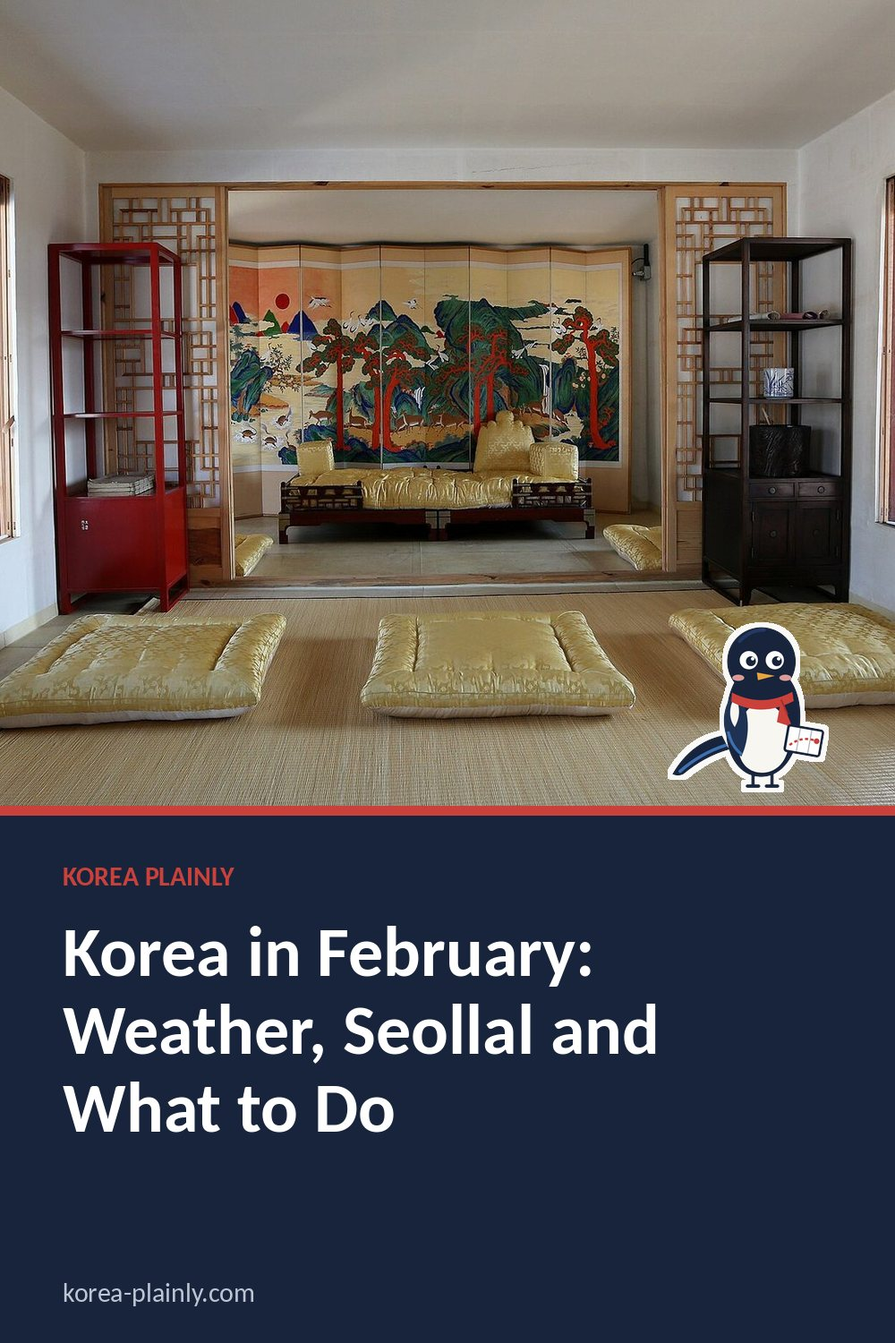
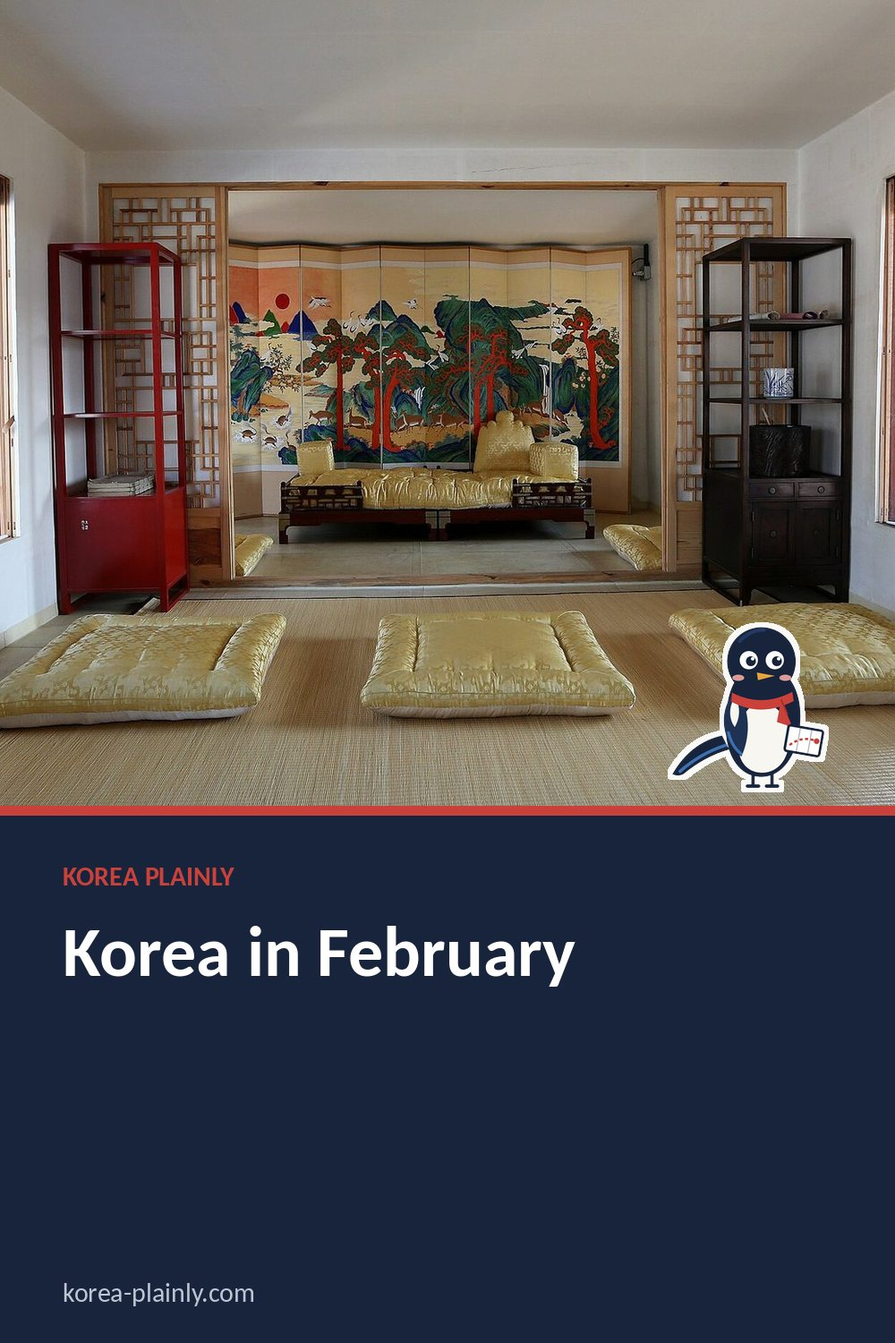
February guide: retitle for 'seoul in february weather' and expand Seoul weather (early vs late Feb, wind chill, snow, daylight, fine dust) with a new FAQ; pharmacy guide: specific bottom line, public late-night pharmacies, links to emergency, Papago and convenience store guides, retry cover photo; 
Claude-Session: https://claude.ai/code/session_01MMQnqJENJmphxJ5L9fLGpf

Changed region(s): [[0.062, 0.736, 0.589, 0.8587], [0.62, 0.7053, 0.744, 0.7973]]

diff --git a/korea-pharmacy-guide.html b/korea-pharmacy-guide.html
@@ -245,12 +245,12 @@ footer {
 <script async src="https://pagead2.googlesyndication.com/pagead/js/adsbygoogle.js?client=ca-pub-7379462117232471" crossorigin="anonymous"></script>
 <style>.kp-date{font-size:13px;color:#62635f;margin:-6px 0 22px}</style>
 <script type="application/ld+json" id="kp-faq-ld">{"@context": "https://schema.org", "@type": "FAQPage", "mainEntity": [{"@type": "Question", "name": "Can I buy common travel medicines at a pharmacy in Korea?", "acceptedAnswer": {"@type": "Answer", "text": "Many pharmacies sell medicines for common problems such as a cold, allergies, or an upset stomach. Tell the pharmacist what symptoms you have and mention any allergies or other medicines you take. If symptoms are severe, unusual, or getting worse, seek medical care rather than relying on an over-the-counter product."}}, {"@type": "Question", "name": "What should I bring if I need medicine while travelling in Korea?", "acceptedAnswer": {"@type": "Answer", "text": "Bring your regular medicines in their original packaging, along with a note of their generic names and doses. A prescription or a note from your doctor can help explain what you take. If you need a replacement, show the pharmacist the packaging or written information instead of relying only on a brand name."}}, {"@type": "Question", "name": "Will a Korean pharmacist be able to help me in English?", "acceptedAnswer": {"@type": "Answer", "text": "Some pharmacists may speak English, but it is helpful to be ready to explain your symptoms simply. Write down when they started, any allergies, and medicines you already take. A translation app can help, but check that you understand the directions, including how often to take the medicine and any warnings."}}]}</script>
-<script type="application/ld+json" id="kp-article-ld">{"@context": "https://schema.org", "@type": "Article", "headline": "Buying Medicine in Korea: Pharmacies for Travellers", "description": "How to find a pharmacy, explain common symptoms, buy basic medicine and get help with prescriptions while travelling in Korea.", "image": ["https://korea-plainly.com/store.jpg"], "datePublished": "2026-11-10", "dateModified": "2026-11-10", "author": {"@type": "Person", "name": "Jungsuk Kim", "url": "https://korea-plainly.com/about.html#author"}, "publisher": {"@type": "Organization", "name": "Korea Plainly", "url": "https://korea-plainly.com/"}, "mainEntityOfPage": "https://korea-plainly.com/korea-pharmacy-guide.html"}</script>
-<script type="application/ld+json" id="kp-breadcrumb-ld">{"@context": "https://schema.org", "@type": "BreadcrumbList", "itemListElement": [{"@type": "ListItem", "position": 1, "name": "Home", "item": "https://korea-plainly.com/"}, {"@type": "ListItem", "position": 2, "name": "Guides", "item": "https://korea-plainly.com/guides.html"}, {"@type": "ListItem", "position": 3, "name": "Daily Life", "item": "https://korea-plainly.com/guides.html?category=daily"}, {"@type": "ListItem", "position": 4, "name": "Buying Medicine in Korea: Pharmacies for Travellers", "item": "https://korea-plainly.com/korea-pharmacy-guide.html"}]}</script>
-<meta property="article:published_time" content="2026-11-10">
 <link rel="stylesheet" href="article.css?v=4">
 <link rel="stylesheet" href="https://fonts.googleapis.com/css2?family=DM+Sans:wght@400;500;600;700&family=Playfair+Display:ital,wght@0,600;1,600&display=swap">
 <link rel="icon" href="/favicon.svg" type="image/svg+xml">
+<script type="application/ld+json" id="kp-article-ld">{"@context": "https://schema.org", "@type": "Article", "headline": "Buying Medicine in Korea: Pharmacies for Travellers", "description": "How to find a pharmacy, explain common symptoms, buy basic medicine and get help with prescriptions while travelling in Korea.", "image": ["https://korea-plainly.com/store.jpg"], "datePublished": "2026-11-10", "dateModified": "2026-11-10", "author": {"@type": "Person", "name": "Jungsuk Kim", "url": "https://korea-plainly.com/about.html#author"}, "publisher": {"@type": "Organization", "name": "Korea Plainly", "url": "https://korea-plainly.com/"}, "mainEntityOfPage": "https://korea-plainly.com/korea-pharmacy-guide.html"}</script>
+<script type="application/ld+json" id="kp-breadcrumb-ld">{"@context": "https://schema.org", "@type": "BreadcrumbList", "itemListElement": [{"@type": "ListItem", "position": 1, "name": "Home", "item": "https://korea-plainly.com/"}, {"@type": "ListItem", "position": 2, "name": "Guides", "item": "https://korea-plainly.com/guides.html"}, {"@type": "ListItem", "position": 3, "name": "Daily Life", "item": "https://korea-plainly.com/guides.html?category=daily"}, {"@type": "ListItem", "position": 4, "name": "Buying Medicine in Korea: Pharmacies for Travellers", "item": "https://korea-plainly.com/korea-pharmacy-guide.html"}]}</script>
+<meta property="article:published_time" content="2026-11-10">
 </head>
 
 <body class="kp-article">
@@ -297,7 +297,7 @@ How to find a pharmacy, explain common symptoms, buy basic medicine and get help
 <article>
 
 <p>A Korean pharmacy is easy to spot: look for the sign 약국 (yak-guk), often with a green cross. Pharmacists can help with common problems such as a headache, a cold, an upset stomach or allergies. Most medicines are sold through pharmacies, while convenience stores carry only a limited selection. A little preparation helps, especially if you take regular medicine or have allergies.</p><nav class="kp-toc" data-kp="toc" aria-label="On this page"><p>On this page</p><ol><li><a href="#finding-a-pharmacy">Finding a pharmacy</a></li><li><a href="#what-to-say-at-the-counter">What to say at the counter</a></li><li><a href="#buying-common-medicines">Buying common medicines</a></li><li><a href="#convenience-stores-and-late-night-needs">Convenience stores and late-night needs</a></li><li><a href="#prescription-medicines-and-regular-treatments">Prescription medicines and regular treatments</a></li><li><a href="#when-a-pharmacy-is-not-enough">When a pharmacy is not enough</a></li><li><a href="#frequently-asked-questions">Frequently Asked Questions</a></li></ol></nav>
-<h2 id="finding-a-pharmacy">Finding a pharmacy</h2><p>Search 약국 in Naver Map or KakaoMap. In Seoul, you will find pharmacies around busy areas such as Myeongdong, Hongdae and the streets near Seoul Station; in Busan, try the blocks around Seomyeon Station on subway lines 1 and 2. A pharmacy’s location does not guarantee that it is open when you arrive. For today’s status, use Naver Map or KakaoMap; the Ministry of Health and Welfare’s E-Gen portal (e-gen.or.kr) also lists pharmacies and emergency services, though much of its information is in Korean.</p><p>Some pharmacies close in the evening or on public holidays, and hours vary. If one is shut, search for another nearby rather than assuming every pharmacy follows the same schedule. In a large station or shopping district, look at the streets around the station as well as inside the main shopping areas.</p><h2 id="what-to-say-at-the-counter">What to say at the counter</h2><p>Tell the pharmacist what is wrong, when it started and what you have already taken. You can show the medicine’s package or type a short message into a translation app. These Korean words can help:</p><ul><li><strong>두통 (du-tong):</strong> headache</li><li><strong>감기 (gam-gi):</strong> cold</li><li><strong>소화불량 (so-hwa-bul-lyang):</strong> indigestion</li><li><strong>알레르기 (al-le-reu-gi):</strong> allergy</li><li><strong>복용법 (bo-gyong-beop):</strong> directions for taking medicine</li><li><strong>하루 몇 번 먹어요? (ha-ru myeot beon meo-geo-yo?):</strong> How many times a day should I take it?</li></ul><p>Say clearly if you are pregnant, breastfeeding, taking other medicines or allergic to a drug. If you do not understand the directions, ask the pharmacist to write down how often to take it. English support varies by pharmacy, even in central Seoul.</p><h2 id="buying-common-medicines">Buying common medicines</h2><p>For everyday problems, ask for 진통제 (jin-tong-je), a pain reliever; 감기약 (gam-gi-yak), cold medicine; 소화제 (so-hwa-je), digestive medicine; or 알레르기약 (al-le-reu-gi-yak), allergy medicine. You may also see 파스 (pa-seu), medicated patches often used for sore muscles. These are categories, not a recommendation for a particular product. Ask the pharmacist to check the active ingredient and explain the dose.</p><p>Many Korean medicine packages have instructions mainly in Korean. Keep the box or leaflet so you can check the name and directions later. Do not combine two cold or pain medicines without checking their ingredients: products with different brand names can contain the same active drug. This is especially important if you already take medicine brought from home.</p><h2 id="convenience-stores-and-late-night-needs">Convenience stores and late-night needs</h2><p>Some convenience stores sell a small range of approved over-the-counter medicines, such as selected pain, cold and digestive remedies. Stores near Hongik University Station in Seoul or Seomyeon in Busan may be easy to find late at night, but not every branch carries medicine, and the selection is much smaller than a pharmacy’s. Ask the cashier for 약 (yak, medicine) or look for a medicine label near the counter.</p><p>A convenience store is not a substitute for a pharmacist when you need advice, have a serious symptom or take several medicines. If you cannot find an open pharmacy, search 약국 on a map app or use E-Gen. For a medical emergency, call 119 or go to an emergency department; do not wait for a shop to open.</p><h2 id="prescription-medicines-and-regular-treatments">Prescription medicines and regular treatments</h2><p>For prescription-only medicine, expect to see a Korean doctor and receive a Korean prescription. A pharmacy may not be able to fill a prescription issued overseas. If you need a refill, contact a clinic before you run out. In Seoul, clinics are common around Gangnam Station and Jongno; tell the clinic staff the generic name, strength and dose rather than relying only on a brand name from home.</p><p>Bring your medicine in its original packaging, plus a list of its active ingredients and your usual dose. A photo of the prescription can help explain your treatment, but it does not guarantee that a Korean pharmacy can dispense the medicine. If it is a controlled or specialist medicine, check the rules with the relevant Korean authorities before travelling and speak with your doctor about a safe plan.</p><h2 id="when-a-pharmacy-is-not-enough">When a pharmacy is not enough</h2><p>Ask for a clinic if symptoms are worsening, last longer than expected or need a diagnosis. Useful signs include 내과 (nae-gwa), internal medicine; 이비인후과 (i-bi-in-hu-gwa), ear, nose and throat; and 피부과 (pi-bu-gwa), dermatology. A pharmacist can help with minor symptoms, but is not a replacement for medical care. For breathing difficulty, severe allergic reactions, major injury or sudden severe pain, call 119. Keep your travel insurance details and passport information accessible when seeking care.</p>
+<h2 id="finding-a-pharmacy">Finding a pharmacy</h2><p>Search 약국 in Naver Map or KakaoMap. In Seoul, you will find pharmacies around busy areas such as Myeongdong, Hongdae and the streets near Seoul Station; in Busan, try the blocks around Seomyeon Station on subway lines 1 and 2. A pharmacy’s location does not guarantee that it is open when you arrive. For today’s status, use Naver Map or KakaoMap; the Ministry of Health and Welfare’s E-Gen portal (e-gen.or.kr) also lists pharmacies and emergency services, though much of its information is in Korean.</p><p>Some pharmacies close in the evening or on public holidays, and hours vary. If one is shut, search for another nearby rather than assuming every pharmacy follows the same schedule. In a large station or shopping district, look at the streets around the station as well as inside the main shopping areas.</p><h2 id="what-to-say-at-the-counter">What to say at the counter</h2><p>Tell the pharmacist what is wrong, when it started and what you have already taken. You can show the medicine’s package or type a short message into a translation app such as <a href="papago-translation-app.html">Papago</a>. These Korean words can help:</p><ul><li><strong>두통 (du-tong):</strong> headache</li><li><strong>감기 (gam-gi):</strong> cold</li><li><strong>소화불량 (so-hwa-bul-lyang):</strong> indigestion</li><li><strong>알레르기 (al-le-reu-gi):</strong> allergy</li><li><strong>복용법 (bo-gyong-beop):</strong> directions for taking medicine</li><li><strong>하루 몇 번 먹어요? (ha-ru myeot beon meo-geo-yo?):</strong> How many times a day should I take it?</li></ul><p>Say clearly if you are pregnant, breastfeeding, taking other medicines or allergic to a drug. If you do not understand the directions, ask the pharmacist to write down how often to take it. English support varies by pharmacy, even in central Seoul.</p><h2 id="buying-common-medicines">Buying common medicines</h2><p>For everyday problems, ask for 진통제 (jin-tong-je), a pain reliever; 감기약 (gam-gi-yak), cold medicine; 소화제 (so-hwa-je), digestive medicine; or 알레르기약 (al-le-reu-gi-yak), allergy medicine. You may also see 파스 (pa-seu), medicated patches often used for sore muscles. These are categories, not a recommendation for a particular product. Ask the pharmacist to check the active ingredient and explain the dose.</p><p>Many Korean medicine packages have instructions mainly in Korean. Keep the box or leaflet so you can check the name and directions later. Do not combine two cold or pain medicines without checking their ingredients: products with different brand names can contain the same active drug. This is especially important if you already take medicine brought from home.</p><h2 id="convenience-stores-and-late-night-needs">Convenience stores and late-night needs</h2><p>Some convenience stores sell a small range of approved over-the-counter medicines, such as selected pain, cold and digestive remedies. Stores near Hongik University Station in Seoul or Seomyeon in Busan may be easy to find late at night, but not every branch carries medicine, and the selection is much smaller than a pharmacy’s. Ask the cashier for 약 (yak, medicine) or look for a medicine label near the counter.</p><p>Many cities also run <strong>public late-night pharmacies</strong> (공공심야약국, gong-gong sim-ya yak-guk), which usually stay open until around 1am, including at weekends and on holidays. Search 공공심야약국 on Naver Map or KakaoMap to find the nearest one, and check its listing before you set off. Our <a href="korean-convenience-store-guide.html">convenience store guide</a> covers what else the 24-hour shops sell.</p><p>A convenience store is not a substitute for a pharmacist when you need advice, have a serious symptom or take several medicines. If you cannot find an open pharmacy, search 약국 on a map app or use E-Gen. For a medical emergency, call 119 or go to an emergency department; do not wait for a shop to open.</p><h2 id="prescription-medicines-and-regular-treatments">Prescription medicines and regular treatments</h2><p>For prescription-only medicine, expect to see a Korean doctor and receive a Korean prescription. A pharmacy may not be able to fill a prescription issued overseas. If you need a refill, contact a clinic before you run out. In Seoul, clinics are common around Gangnam Station and Jongno; tell the clinic staff the generic name, strength and dose rather than relying only on a brand name from home.</p><p>Bring your medicine in its original packaging, plus a list of its active ingredients and your usual dose. A photo of the prescription can help explain your treatment, but it does not guarantee that a Korean pharmacy can dispense the medicine. If it is a controlled or specialist medicine, check the rules with the relevant Korean authorities before travelling and speak with your doctor about a safe plan.</p><h2 id="when-a-pharmacy-is-not-enough">When a pharmacy is not enough</h2><p>Ask for a clinic if symptoms are worsening, last longer than expected or need a diagnosis. Useful signs include 내과 (nae-gwa), internal medicine; 이비인후과 (i-bi-in-hu-gwa), ear, nose and throat; and 피부과 (pi-bu-gwa), dermatology. A pharmacist can help with minor symptoms, but is not a replacement for medical care. For breathing difficulty, severe allergic reactions, major injury or sudden severe pain, call 119. Our <a href="korea-emergency-help.html">emergency help guide</a> explains the numbers to call and how to get help in English. Keep your travel insurance details and passport information accessible when seeking care.</p>
 
 <div class="tip">
 
@@ -305,10 +305,7 @@ How to find a pharmacy, explain common symptoms, buy basic medicine and get help
 Bottom line:
 </strong>
 
-A little preparation can make your
-time in Korea much easier.
-Keep this guide handy and enjoy
-exploring at your own pace.
+Search 약국 on Naver Map or KakaoMap, show the pharmacist your symptoms in writing, and keep the box. Late at night, look for a public late-night pharmacy (공공심야약국); for anything serious, call 119.
 
 </div>
 

diff --git a/korea-in-february.html b/korea-in-february.html
@@ -11,11 +11,11 @@
 >
 
 <link rel="stylesheet" href="style.css?v=20261015-1">
-<title>Korea in February: Weather, Seollal and What to Do</title>
+<title>Korea in February: Seoul Weather, Seollal 2027 and What to Do</title>
 
 <meta
   name="description"
-  content="Visiting Korea in February: still cold but warming up, Lunar New Year (Seollal) on 6-9 February 2027, the last ski weeks, snow festivals and early signs of spring in the south."
+  content="Seoul in February weather: highs near 4°C, lows near -4°C. Plus Busan and Jeju, Seollal on 6-9 Feb 2027, last ski weeks and what to pack."
 >
 <link
   rel="canonical"
@@ -29,12 +29,12 @@
 
 <meta
   property="og:title"
-  content="Korea in February: Weather, Seollal and What to Do"
+  content="Korea in February: Seoul Weather, Seollal 2027 and What to Do"
 >
 
 <meta
   property="og:description"
-  content="Visiting Korea in February: still cold but warming up, Lunar New Year (Seollal) on 6-9 February 2027, the last ski weeks, snow festivals and early signs of spring in the south."
+  content="Seoul in February weather: highs near 4°C, lows near -4°C. Plus Busan and Jeju, Seollal on 6-9 Feb 2027, last ski weeks and what to pack."
 >
 
 <meta
@@ -59,12 +59,12 @@
 
 <meta
   name="twitter:title"
-  content="Korea in February: Weather, Seollal and What to Do"
+  content="Korea in February: Seoul Weather, Seollal 2027 and What to Do"
 >
 
 <meta
   name="twitter:description"
-  content="Visiting Korea in February: still cold but warming up, Lunar New Year (Seollal) on 6-9 February 2027, the last ski weeks, snow festivals and early signs of spring in the south."
+  content="Seoul in February weather: highs near 4°C, lows near -4°C. Plus Busan and Jeju, Seollal on 6-9 Feb 2027, last ski weeks and what to pack."
 >
 
 <meta
@@ -247,9 +247,9 @@ footer {
 <link rel="stylesheet" href="article.css?v=4">
 <link rel="stylesheet" href="https://fonts.googleapis.com/css2?family=DM+Sans:wght@400;500;600;700&family=Playfair+Display:ital,wght@0,600;1,600&display=swap">
 <link rel="icon" href="/favicon.svg" type="image/svg+xml">
-<script type="application/ld+json" id="kp-faq-ld">{"@context": "https://schema.org", "@type": "FAQPage", "mainEntity": [{"@type": "Question", "name": "When is Seollal in 2027?", "acceptedAnswer": {"@type": "Answer", "text": "Seollal is on Sunday 7 February 2027, and the public holiday runs from Saturday 6 to Tuesday 9 February."}}, {"@type": "Question", "name": "Is everything closed in Korea at Seollal?", "acceptedAnswer": {"@type": "Answer", "text": "No. Some small family-run restaurants and shops close, but department stores, convenience stores, chain restaurants and most sights stay open. Trains and buses between cities are the main problem, as they sell out."}}, {"@type": "Question", "name": "Is it still cold in Korea in February?", "acceptedAnswer": {"@type": "Answer", "text": "Yes, especially in the first half of the month and in the mountains. Late February can have mild afternoons, but mornings stay cold."}}]}</script>
-<script type="application/ld+json" id="kp-article-ld">{"@context": "https://schema.org", "@type": "Article", "headline": "Korea in February: Weather, Seollal and What to Do", "description": "Visiting Korea in February: still cold but warming up, Lunar New Year (Seollal) on 6-9 February 2027, the last ski weeks, snow festivals and early signs of spring in the south.", "image": ["https://korea-plainly.com/photo-korea-in-february.jpg"], "datePublished": "2026-10-15", "dateModified": "2026-11-05", "author": {"@type": "Person", "name": "Jungsuk Kim", "url": "https://korea-plainly.com/about.html#author"}, "publisher": {"@type": "Organization", "name": "Korea Plainly", "url": "https://korea-plainly.com/"}, "mainEntityOfPage": "https://korea-plainly.com/korea-in-february.html"}</script>
-<script type="application/ld+json" id="kp-breadcrumb-ld">{"@context": "https://schema.org", "@type": "BreadcrumbList", "itemListElement": [{"@type": "ListItem", "position": 1, "name": "Home", "item": "https://korea-plainly.com/"}, {"@type": "ListItem", "position": 2, "name": "Guides", "item": "https://korea-plainly.com/guides.html"}, {"@type": "ListItem", "position": 3, "name": "Travel Basics", "item": "https://korea-plainly.com/guides.html?category=travel"}, {"@type": "ListItem", "position": 4, "name": "Korea in February: Weather, Seollal and What to Do", "item": "https://korea-plainly.com/korea-in-february.html"}]}</script>
+<script type="application/ld+json" id="kp-faq-ld">{"@context": "https://schema.org", "@type": "FAQPage", "mainEntity": [{"@type": "Question", "name": "When is Seollal in 2027?", "acceptedAnswer": {"@type": "Answer", "text": "Seollal is on Sunday 7 February 2027, and the public holiday runs from Saturday 6 to Tuesday 9 February."}}, {"@type": "Question", "name": "Is everything closed in Korea at Seollal?", "acceptedAnswer": {"@type": "Answer", "text": "No. Some small family-run restaurants and shops close, but department stores, convenience stores, chain restaurants and most sights stay open. Trains and buses between cities are the main problem, as they sell out."}}, {"@type": "Question", "name": "What is the weather like in Seoul in February?", "acceptedAnswer": {"@type": "Answer", "text": "Cold and dry: average highs of about 4°C and lows of about -4°C, with wind chill on cold days. Late February can have mild afternoons near 10°C, but mornings stay cold, so pack a warm coat for the whole month."}}]}</script>
+<script type="application/ld+json" id="kp-article-ld">{"@context": "https://schema.org", "@type": "Article", "headline": "Korea in February: Seoul Weather, Seollal 2027 and What to Do", "description": "Seoul in February weather: highs near 4°C, lows near -4°C. Plus Busan and Jeju, Seollal on 6-9 Feb 2027, last ski weeks and what to pack.", "image": ["https://korea-plainly.com/photo-korea-in-february.jpg"], "datePublished": "2026-10-15", "dateModified": "2026-11-10", "author": {"@type": "Person", "name": "Jungsuk Kim", "url": "https://korea-plainly.com/about.html#author"}, "publisher": {"@type": "Organization", "name": "Korea Plainly", "url": "https://korea-plainly.com/"}, "mainEntityOfPage": "https://korea-plainly.com/korea-in-february.html"}</script>
+<script type="application/ld+json" id="kp-breadcrumb-ld">{"@context": "https://schema.org", "@type": "BreadcrumbList", "itemListElement": [{"@type": "ListItem", "position": 1, "name": "Home", "item": "https://korea-plainly.com/"}, {"@type": "ListItem", "position": 2, "name": "Guides", "item": "https://korea-plainly.com/guides.html"}, {"@type": "ListItem", "position": 3, "name": "Travel Basics", "item": "https://korea-plainly.com/guides.html?category=travel"}, {"@type": "ListItem", "position": 4, "name": "Korea in February: Seoul Weather, Seollal 2027 and What to Do", "item": "https://korea-plainly.com/korea-in-february.html"}]}</script>
 <meta property="article:published_time" content="2026-10-15">
 </head>
 
@@ -280,12 +280,12 @@ TRAVEL BASICS · SEASONAL
 </div>
 
 <h1>
-Korea in February: Weather, Seollal and What to Do
+Korea in February: Seoul Weather, Seollal 2027 and What to Do
 </h1>
-<p class="kp-date" data-kp="date">By <a href="about.html#author">Jungsuk Kim</a>, Korea Plainly · Published <time datetime="2026-10-15">15 October 2026</time> · Updated <time datetime="2026-11-05">5 November 2026</time></p>
+<p class="kp-date" data-kp="date">By <a href="about.html#author">Jungsuk Kim</a>, Korea Plainly · Published <time datetime="2026-10-15">15 October 2026</time> · Updated <time datetime="2026-11-10">10 November 2026</time></p>
 
 <p class="dek">
-Visiting Korea in February: still cold but warming up, Lunar New Year (Seollal) on 6-9 February 2027, the last ski weeks, snow festivals and early signs of spring in the south.
+Seoul in February weather: highs near 4°C, lows near -4°C. Plus Busan and Jeju, Seollal on 6-9 Feb 2027, last ski weeks and what to pack.
 </p>
 
 <img
@@ -299,7 +299,7 @@ Visiting Korea in February: still cold but warming up, Lunar New Year (Seollal) 
 
 <p>February is the end of Korean winter. The first half is still properly cold, with the last good weeks of skiing and snow festivals, and the second half starts to feel like the end of winter, especially in the south. The big event is Lunar New Year, <em>Seollal</em>, one of the two biggest holidays of the year. In 2027 it falls on <strong>6 to 9 February</strong>, and it is worth planning around.</p>
 
-<nav class="kp-toc" data-kp="toc" aria-label="On this page"><p>On this page</p><ol><li><a href="#what-the-weather-is-like">What the weather is like</a></li><li><a href="#what-to-pack">What to pack</a></li><li><a href="#seollal-lunar-new-year">Seollal: Lunar New Year</a></li><li><a href="#things-to-do-in-february">Things to do in February</a></li><li><a href="#is-february-a-good-time-to-visit">Is February a good time to visit?</a></li><li><a href="#seoul-busan-jeju-in-february">Seoul, Busan and Jeju in February</a></li><li><a href="#what-to-eat-in-february">What to eat in February</a></li><li><a href="#february-idea">Last snow, first blossoms</a></li><li><a href="#faq">FAQ</a></li></ol></nav>
+<nav class="kp-toc" data-kp="toc" aria-label="On this page"><p>On this page</p><ol><li><a href="#what-the-weather-is-like">Seoul in February: what the weather is like</a></li><li><a href="#what-to-pack">What to pack</a></li><li><a href="#seollal-lunar-new-year">Seollal: Lunar New Year</a></li><li><a href="#things-to-do-in-february">Things to do in February</a></li><li><a href="#is-february-a-good-time-to-visit">Is February a good time to visit?</a></li><li><a href="#seoul-busan-jeju-in-february">Seoul, Busan and Jeju in February</a></li><li><a href="#what-to-eat-in-february">What to eat in February</a></li><li><a href="#february-idea">Last snow, first blossoms</a></li><li><a href="#faq">FAQ</a></li></ol></nav>
 <!-- kp-video -->
 <figure class="kp-video"><style>.kp-video{margin:1.5rem auto;max-width:300px;text-align:center}.kp-video .kp-video-box{position:relative;display:block;aspect-ratio:9/16;border-radius:14px;overflow:hidden;background:#111}.kp-video img,.kp-video iframe{position:absolute;inset:0;width:100%;height:100%;object-fit:cover;border:0;margin:0}.kp-video .kp-play{position:absolute;left:50%;top:30%;width:72px;height:72px;margin:-36px 0 0 -36px;border-radius:50%;background:rgba(201,65,58,.92);box-shadow:0 4px 18px rgba(0,0,0,.35)}.kp-video .kp-play:after{content:'';position:absolute;left:29px;top:22px;border-style:solid;border-width:14px 0 14px 22px;border-color:transparent transparent transparent #fff}.kp-video p{font-size:.9rem;margin:.5rem 0 0;color:#5b6472}.kp-video.kp-long{max-width:820px}.kp-video.kp-long .kp-video-box{aspect-ratio:16/9}.kp-video.kp-long .kp-play{top:50%}.kp-video .kp-sub{margin-top:10px}.kp-sub{display:inline-flex;align-items:center;gap:8px;background:#c9413a;color:#fff!important;font-weight:700;font-size:14px;line-height:1;padding:10px 16px;border-radius:999px;text-decoration:none!important;white-space:nowrap}.kp-sub:before{content:'';border-style:solid;border-width:6px 0 6px 10px;border-color:transparent transparent transparent #fff}.kp-sub:hover{background:#a8332d}</style>
 <a class="kp-video-box" href="https://www.youtube.com/shorts/IBu_Y2JxwKk" data-yt="IBu_Y2JxwKk" aria-label="Play video: Korea in February: Pack Smart, Plan Seollal" target="_blank" rel="noopener"><img src="img/video-korea-in-february.jpg" alt="Korea in February: Pack Smart, Plan Seollal" width="540" height="960" loading="lazy"><span class="kp-play"></span></a>
@@ -308,8 +308,16 @@ Visiting Korea in February: still cold but warming up, Lunar New Year (Seollal) 
 <script type="application/ld+json">{"@context": "https://schema.org", "@type": "VideoObject", "name": "Korea in February: Pack Smart, Plan Seollal", "description": "Korea in February: Pack Smart, Plan Seollal: the short version of our guide.", "thumbnailUrl": ["https://korea-plainly.com/img/video-korea-in-february.jpg"], "uploadDate": "2026-11-04T16:26:24+09:00", "duration": "PT41S", "embedUrl": "https://www.youtube.com/embed/IBu_Y2JxwKk", "url": "https://www.youtube.com/shorts/IBu_Y2JxwKk"}</script><script>document.querySelectorAll('.kp-video-box[data-yt]').forEach(function(a){a.addEventListener('click',function(e){e.preventDefault();var f=document.createElement('iframe');f.src='https://www.youtube-nocookie.com/embed/'+a.dataset.yt+'?autoplay=1&playsinline=1&rel=0';f.title=a.getAttribute('aria-label');f.allow='autoplay; encrypted-media; picture-in-picture';f.allowFullscreen=true;var d=document.createElement('div');d.className='kp-video-box';d.appendChild(f);a.replaceWith(d);});});</script>
 </figure>
 <!-- /kp-video -->
-<h2 id="what-the-weather-is-like">What the weather is like</h2>
-<p>In Seoul, early February is still cold, with days around freezing and nights well below. By late February, sunny afternoons can feel mild, though mornings stay cold and a late cold spell or snowfall is common. Busan, the south coast and Jeju warm up first. It is still a dry month, with clear skies on most days.</p>
+<h2 id="what-the-weather-is-like">Seoul in February: what the weather is like</h2>
+<p>Seoul in February weather is cold, dry and mostly sunny. Long-term averages are a high of about 4°C and a low of about -4°C, but the month changes a lot from start to finish:</p>
+<ul>
+<li><strong>Early February:</strong> still deep winter. Days hover around freezing and a north-west wind off the continent can make it feel close to -10°C on the Han River bridges and in open spaces such as Gwanghwamun Square. Cold snaps of several days are normal.</li>
+<li><strong>Late February:</strong> sunny afternoons can reach 8-10°C and feel almost mild in a sheltered palace courtyard, but mornings and evenings are still near or below freezing.</li>
+<li><strong>Snow:</strong> Seoul gets a few light snowfalls in an average February rather than deep snow. Pavements and the steep lanes of Bukchon or around Namsan can be icy for a day or two afterwards.</li>
+<li><strong>Daylight:</strong> sunset moves from about 6pm to almost 6:30pm across the month, so you get a little more of the evening each week.</li>
+<li><strong>Air quality:</strong> late winter and spring can bring hazy days with fine dust (미세먼지, mise-meonji). Check the air quality in Naver Weather or an air quality app, and keep a mask handy if you are sensitive.</li>
+</ul>
+<p>Busan, the south coast and Jeju warm up first and rarely see lasting snow; see the table below and our <a href="korea-weather-by-season.html">Korea weather by season</a> guide for the rest of the year.</p>
 
 <h2 id="what-to-pack">What to pack</h2>
 <ul>
@@ -368,8 +376,8 @@ Visiting Korea in February: still cold but warming up, Lunar New Year (Seollal) 
 <p>Seollal is on Sunday 7 February 2027, and the public holiday runs from Saturday 6 to Tuesday 9 February.</p>
 <h3>Is everything closed in Korea at Seollal?</h3>
 <p>No. Some small family-run restaurants and shops close, but department stores, convenience stores, chain restaurants and most sights stay open. Trains and buses between cities are the main problem, as they sell out.</p>
-<h3>Is it still cold in Korea in February?</h3>
-<p>Yes, especially in the first half of the month and in the mountains. Late February can have mild afternoons, but mornings stay cold.</p>
+<h3>What is the weather like in Seoul in February?</h3>
+<p>Cold and dry: average highs of about 4°C and lows of about -4°C, with wind chill on cold days. Late February can have mild afternoons near 10°C, but mornings stay cold, so pack a warm coat for the whole month.</p>
 </section>
 
 <a class="back" href="guides.html">← Back to all guides</a>

diff --git a/korea-festivals.html b/korea-festivals.html
@@ -339,7 +339,7 @@ A festival calendar for Korea, updated every week: what is on now and coming up 
 <!-- /kp-kkachi -->
 <section class="related-guides">
 <h2>Related guides</h2>
-<div class="kp-related"><a href="korea-packing-list.html"><img src="photo-korea-packing-list.jpg" alt="" loading="lazy" srcset="img/photo-korea-packing-list.73e71725.w480.webp 480w, img/photo-korea-packing-list.73e71725.w800.webp 800w, img/photo-korea-packing-list.73e71725.w1200.webp 1200w, photo-korea-packing-list.jpg 1600w" sizes="(max-width: 600px) 100vw, (max-width: 1000px) 50vw, 400px" decoding="async"><span>Korea Packing List: What to Bring in Every Season (Interactive Checklist)</span></a><a href="korea-in-december.html"><img src="photo-korea-in-december.jpg" alt="" loading="lazy" srcset="img/photo-korea-in-december.c2f6894b.w480.webp 480w, img/photo-korea-in-december.c2f6894b.w800.webp 800w, img/photo-korea-in-december.c2f6894b.w1200.webp 1200w, photo-korea-in-december.jpg 1600w" sizes="(max-width: 600px) 100vw, (max-width: 1000px) 50vw, 400px" decoding="async"><span>Korea in December: Seoul, Busan and Jeju Weather and What to Pack</span></a><a href="korea-in-february.html"><img src="photo-korea-in-february.jpg" alt="" loading="lazy" srcset="img/photo-korea-in-february.e8108590.w480.webp 480w, img/photo-korea-in-february.e8108590.w800.webp 800w, img/photo-korea-in-february.e8108590.w1200.webp 1200w, photo-korea-in-february.jpg 1600w" sizes="(max-width: 600px) 100vw, (max-width: 1000px) 50vw, 400px" decoding="async"><span>Korea in February: Weather, Seollal and What to Do</span></a></div>
+<div class="kp-related"><a href="korea-packing-list.html"><img src="photo-korea-packing-list.jpg" alt="" loading="lazy" srcset="img/photo-korea-packing-list.73e71725.w480.webp 480w, img/photo-korea-packing-list.73e71725.w800.webp 800w, img/photo-korea-packing-list.73e71725.w1200.webp 1200w, photo-korea-packing-list.jpg 1600w" sizes="(max-width: 600px) 100vw, (max-width: 1000px) 50vw, 400px" decoding="async"><span>Korea Packing List: What to Bring in Every Season (Interactive Checklist)</span></a><a href="korea-in-december.html"><img src="photo-korea-in-december.jpg" alt="" loading="lazy" srcset="img/photo-korea-in-december.c2f6894b.w480.webp 480w, img/photo-korea-in-december.c2f6894b.w800.webp 800w, img/photo-korea-in-december.c2f6894b.w1200.webp 1200w, photo-korea-in-december.jpg 1600w" sizes="(max-width: 600px) 100vw, (max-width: 1000px) 50vw, 400px" decoding="async"><span>Korea in December: Seoul, Busan and Jeju Weather and What to Pack</span></a><a href="korea-in-february.html"><img src="photo-korea-in-february.jpg" alt="" loading="lazy" srcset="img/photo-korea-in-february.e8108590.w480.webp 480w, img/photo-korea-in-february.e8108590.w800.webp 800w, img/photo-korea-in-february.e8108590.w1200.webp 1200w, photo-korea-in-february.jpg 1600w" sizes="(max-width: 600px) 100vw, (max-width: 1000px) 50vw, 400px" decoding="async"><span>Korea in February: Seoul Weather, Seollal 2027 and What to Do</span></a></div>
 </section>
 
 </article>

diff --git a/korea-in-may.html b/korea-in-may.html
@@ -364,7 +364,7 @@ Visiting Korea in May: warm sunny weather, the Lotus Lantern Festival for Buddha
 <!-- /kp-kkachi -->
 <section class="related-guides">
 <h2>Related guides</h2>
-<div class="kp-related"><a href="korea-in-april.html"><img src="photo-korea-in-april.jpg" alt="" loading="lazy" srcset="img/photo-korea-in-april.03c5a691.w480.webp 480w, img/photo-korea-in-april.03c5a691.w800.webp 800w, img/photo-korea-in-april.03c5a691.w1200.webp 1200w, photo-korea-in-april.jpg 1600w" sizes="(max-width: 600px) 100vw, (max-width: 1000px) 50vw, 400px" decoding="async"><span>Korea in April: Cherry Blossoms, Weather and What to Pack</span></a><a href="korea-in-december.html"><img src="photo-korea-in-december.jpg" alt="" loading="lazy" srcset="img/photo-korea-in-december.c2f6894b.w480.webp 480w, img/photo-korea-in-december.c2f6894b.w800.webp 800w, img/photo-korea-in-december.c2f6894b.w1200.webp 1200w, photo-korea-in-december.jpg 1600w" sizes="(max-width: 600px) 100vw, (max-width: 1000px) 50vw, 400px" decoding="async"><span>Korea in December: Seoul, Busan and Jeju Weather and What to Pack</span></a><a href="korea-in-february.html"><img src="photo-korea-in-february.jpg" alt="" loading="lazy" srcset="img/photo-korea-in-february.e8108590.w480.webp 480w, img/photo-korea-in-february.e8108590.w800.webp 800w, img/photo-korea-in-february.e8108590.w1200.webp 1200w, photo-korea-in-february.jpg 1600w" sizes="(max-width: 600px) 100vw, (max-width: 1000px) 50vw, 400px" decoding="async"><span>Korea in February: Weather, Seollal and What to Do</span></a></div>
+<div class="kp-related"><a href="korea-in-april.html"><img src="photo-korea-in-april.jpg" alt="" loading="lazy" srcset="img/photo-korea-in-april.03c5a691.w480.webp 480w, img/photo-korea-in-april.03c5a691.w800.webp 800w, img/photo-korea-in-april.03c5a691.w1200.webp 1200w, photo-korea-in-april.jpg 1600w" sizes="(max-width: 600px) 100vw, (max-width: 1000px) 50vw, 400px" decoding="async"><span>Korea in April: Cherry Blossoms, Weather and What to Pack</span></a><a href="korea-in-december.html"><img src="photo-korea-in-december.jpg" alt="" loading="lazy" srcset="img/photo-korea-in-december.c2f6894b.w480.webp 480w, img/photo-korea-in-december.c2f6894b.w800.webp 800w, img/photo-korea-in-december.c2f6894b.w1200.webp 1200w, photo-korea-in-december.jpg 1600w" sizes="(max-width: 600px) 100vw, (max-width: 1000px) 50vw, 400px" decoding="async"><span>Korea in December: Seoul, Busan and Jeju Weather and What to Pack</span></a><a href="korea-in-february.html"><img src="photo-korea-in-february.jpg" alt="" loading="lazy" srcset="img/photo-korea-in-february.e8108590.w480.webp 480w, img/photo-korea-in-february.e8108590.w800.webp 800w, img/photo-korea-in-february.e8108590.w1200.webp 1200w, photo-korea-in-february.jpg 1600w" sizes="(max-width: 600px) 100vw, (max-width: 1000px) 50vw, 400px" decoding="async"><span>Korea in February: Seoul Weather, Seollal 2027 and What to Do</span></a></div>
 </section>
 
 </article>

diff --git a/korea-in-september.html b/korea-in-september.html
@@ -365,7 +365,7 @@ Visiting Korea in September: the end of summer heat, the Chuseok harvest holiday
 <!-- /kp-kkachi -->
 <section class="related-guides">
 <h2>Related guides</h2>
-<div class="kp-related"><a href="korea-in-april.html"><img src="photo-korea-in-april.jpg" alt="" loading="lazy" srcset="img/photo-korea-in-april.03c5a691.w480.webp 480w, img/photo-korea-in-april.03c5a691.w800.webp 800w, img/photo-korea-in-april.03c5a691.w1200.webp 1200w, photo-korea-in-april.jpg 1600w" sizes="(max-width: 600px) 100vw, (max-width: 1000px) 50vw, 400px" decoding="async"><span>Korea in April: Cherry Blossoms, Weather and What to Pack</span></a><a href="korea-in-december.html"><img src="photo-korea-in-december.jpg" alt="" loading="lazy" srcset="img/photo-korea-in-december.c2f6894b.w480.webp 480w, img/photo-korea-in-december.c2f6894b.w800.webp 800w, img/photo-korea-in-december.c2f6894b.w1200.webp 1200w, photo-korea-in-december.jpg 1600w" sizes="(max-width: 600px) 100vw, (max-width: 1000px) 50vw, 400px" decoding="async"><span>Korea in December: Seoul, Busan and Jeju Weather and What to Pack</span></a><a href="korea-in-february.html"><img src="photo-korea-in-february.jpg" alt="" loading="lazy" srcset="img/photo-korea-in-february.e8108590.w480.webp 480w, img/photo-korea-in-february.e8108590.w800.webp 800w, img/photo-korea-in-february.e8108590.w1200.webp 1200w, photo-korea-in-february.jpg 1600w" sizes="(max-width: 600px) 100vw, (max-width: 1000px) 50vw, 400px" decoding="async"><span>Korea in February: Weather, Seollal and What to Do</span></a></div>
+<div class="kp-related"><a href="korea-in-april.html"><img src="photo-korea-in-april.jpg" alt="" loading="lazy" srcset="img/photo-korea-in-april.03c5a691.w480.webp 480w, img/photo-korea-in-april.03c5a691.w800.webp 800w, img/photo-korea-in-april.03c5a691.w1200.webp 1200w, photo-korea-in-april.jpg 1600w" sizes="(max-width: 600px) 100vw, (max-width: 1000px) 50vw, 400px" decoding="async"><span>Korea in April: Cherry Blossoms, Weather and What to Pack</span></a><a href="korea-in-december.html"><img src="photo-korea-in-december.jpg" alt="" loading="lazy" srcset="img/photo-korea-in-december.c2f6894b.w480.webp 480w, img/photo-korea-in-december.c2f6894b.w800.webp 800w, img/photo-korea-in-december.c2f6894b.w1200.webp 1200w, photo-korea-in-december.jpg 1600w" sizes="(max-width: 600px) 100vw, (max-width: 1000px) 50vw, 400px" decoding="async"><span>Korea in December: Seoul, Busan and Jeju Weather and What to Pack</span></a><a href="korea-in-february.html"><img src="photo-korea-in-february.jpg" alt="" loading="lazy" srcset="img/photo-korea-in-february.e8108590.w480.webp 480w, img/photo-korea-in-february.e8108590.w800.webp 800w, img/photo-korea-in-february.e8108590.w1200.webp 1200w, photo-korea-in-february.jpg 1600w" sizes="(max-width: 600px) 100vw, (max-width: 1000px) 50vw, 400px" decoding="async"><span>Korea in February: Seoul Weather, Seollal 2027 and What to Do</span></a></div>
 </section>
 
 </article>

diff --git a/guides.html b/guides.html
@@ -1215,11 +1215,11 @@ TRAVEL BASICS · NEW
 </small>
 
 <h2>
-Korea in February: Weather, Seollal and What to Do
+Korea in February: Seoul Weather, Seollal 2027 and What to Do
 </h2>
 
 <p>
-Visiting Korea in February: still cold but warming up, Lunar New Year (Seollal) on 6-9 February 2027, the last ski weeks, snow festivals and early signs of spring in the south.
+Seoul in February weather: highs near 4°C, lows near -4°C. Plus Busan and Jeju, Seollal on 6-9 Feb 2027, last ski weeks and what to pack.
 </p>
 
 <span class="guide-arrow">

diff --git a/scripts/generate_post.py b/scripts/generate_post.py
@@ -100,6 +100,12 @@ title
 description
 body_html
 thumbnail_alt
+bottom_line
+
+bottom_line: one or two sentences (under 45 words) of the
+specific takeaway for this topic, e.g. the two or three
+actions a visitor should remember. No generic wrap-ups
+such as "a little preparation helps" or "enjoy your trip".
 
 Requirements:
 
@@ -234,6 +240,13 @@ if not thumbnail_path.exists():
     )
 
 body_html = article["body_html"]
+
+# a specific takeaway from the model; no generic filler box if it is missing
+bottom_line = escape(str(article.get("bottom_line") or "").strip())
+bottom_html = (
+    f'<div class="tip">\n\n<strong>\nBottom line:\n</strong>\n\n{bottom_line}\n\n</div>\n'
+    if bottom_line else ""
+)
 
 # --------------------------------------------------
 # 6. V5 스타일 자동 글 생성
@@ -533,19 +546,7 @@ ALL GUIDES →
 
 {body_html}
 
-<div class="tip">
-
-<strong>
-Bottom line:
-</strong>
-
-A little preparation can make your
-time in Korea much easier.
-Keep this guide handy and enjoy
-exploring at your own pace.
-
-</div>
-
+{bottom_html}
 </article>
 
 </main>
